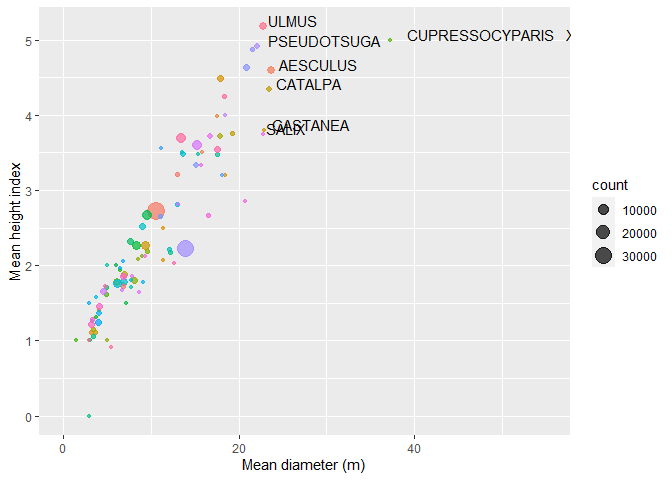
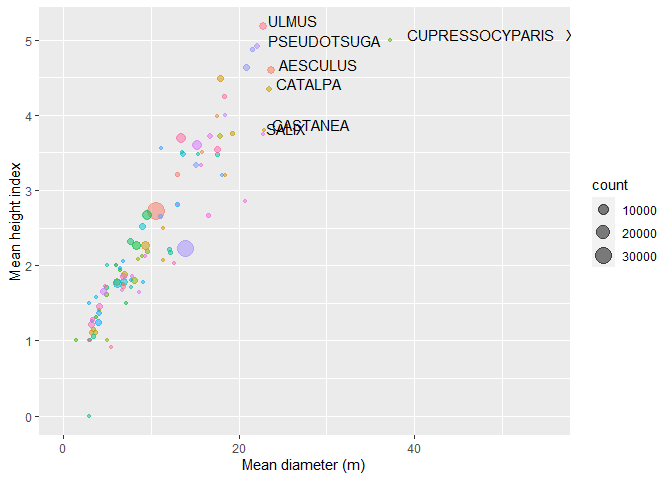
Completed part 2

diff --git a/mini-project-2.md b/mini-project-2.md
@@ -363,7 +363,7 @@ overlap I’ll label the top few points on the plot. Points will be tr
 ``` r
 genus_summary %>%
   ggplot(aes(x=mean, y= mean_height)) +
-  geom_point(aes(size = count, color = genus_name), alpha = 0.7) +
+  geom_point(aes(size = count, color = genus_name), alpha = 0.5) +
   geom_text(aes(label = ifelse(mean > 22,as.character(genus_name),''), hjust = -0.1, vjust =0)) +
   labs(x = "Mean diameter (m)", y = "Mean height index") +
   scale_color_discrete(guide="none") +
@@ -385,7 +385,36 @@ refined, now that you’ve investigated your data a bit more? Which
 research questions are yielding interesting results?
 
 <!------------------------- Write your answer here ---------------------------->
-<!----------------------------------------------------------------------------->
+
+I have made some progress towards answering all 4 of my research
+questions, although my approach is fairly coarse and qualitative in all
+cases. I know that trees grow taller roughly linearly as they age, and
+that the further east you go trees shrink (although, as noted, it’s not
+clear if this has much to do with the distance from the shore). For a
+more meaningful analysis of both of these questions, I really should be
+limiting myself to a specific species of tree, and perhaps in a specific
+area.
+
+For question 2, I see that even and odd sides of the road are very
+similar, although really I was hoping to get at east/west/north/south
+differences, which has not been elucidated from this example.
+
+For question 4, I have a few genera that grow taller and wider on
+average, but this did not include any controlling for other impacts, of
+which there are many.
+
+A more refined and realizable set of questions might be:
+
+1.  What quantitative relationship exists between the date planted and
+    tree diameter? Can we distinguish or control for the age of a tree
+    when it was planted?
+2.  How does the cardinal direction of a road affect the growth of trees
+    lining the street? Can we predict this effect numerically?
+3.  What relationship does geographic location have on the growth of
+    given species of trees?
+4.  For trees grown in similar conditions and planted at similar times,
+    what species or genus grows to the largest diameter?
+    <!----------------------------------------------------------------------------->
 
 # Task 2: Tidy your data
 
@@ -405,6 +434,31 @@ untidy? Go through all your columns, or if you have \>8 variables, just
 pick 8, and explain whether the data is untidy or tidy.
 
 <!--------------------------- Start your work below --------------------------->
+
+This data is mostly tidy.
+
+The goal is to study trees, each tree occupies a row, and can be seen as
+one observation of a tree. Each column is a variable relating to that
+tree. To discuss the first 8 columns: the tree’s ID is a unique
+identifier. The civic number appears to correspond to a house number. In
+untidy data, this might be combined withe the following column, the
+street name, however separating it like this is much tidier, as it
+allows for analysis per street. Likewise for genus and species. The
+cultivar is yet another independent property. Arguably, the inclusion of
+the common name is untidy, as this is entirely redundant with the genus
+and species. It would be better to separately store a lookup table for
+this information. The “assigned” column has an unclear meaning, which is
+also bad practice (although this is not *necessarily* unitdy).
+
+Looking closely at a few further columns, on_street_block also contains
+only less data than civic_number. on_street and std_street do appear to
+vary from one another, which likely corresponds to two different systems
+for representing the streets location. This is also potentially
+confusing, a better option would be to just pick one system to prevent
+anyone from accidentally using a different system than expected.
+
+However, in terms of the overall structure, the data is tidy.
+
 <!----------------------------------------------------------------------------->
 
 ### 2.2 (4 points)
@@ -419,6 +473,66 @@ Be sure to explain your reasoning for this task. Show us the “before”
 and “after”.
 
 <!--------------------------- Start your work below --------------------------->
+
+Although I mentioned a few non-ideal things, it would be pretty trivial
+to remove and add those columns back, so I’ll untidy the data further.
+
+To untidy it, I’ll do something that is truly a little insane, and
+simply give each numerical variable its own row, such that each row is a
+tree-numerical value combo
+
+``` r
+vancouver_trees_untidy <- vancouver_trees %>%
+  pivot_longer(cols = where(is.numeric) & -tree_id, names_to = "Property", values_to = "Value")
+
+head(vancouver_trees_untidy, n= 15)
+```
+
+    ## # A tibble: 15 × 16
+    ##    tree_id std_street genus_name species_name cultivar_name common_name assigned
+    ##      <dbl> <chr>      <chr>      <chr>        <chr>         <chr>       <chr>   
+    ##  1  149556 W 58TH AV  ULMUS      AMERICANA    BRANDON       BRANDON ELM N       
+    ##  2  149556 W 58TH AV  ULMUS      AMERICANA    BRANDON       BRANDON ELM N       
+    ##  3  149556 W 58TH AV  ULMUS      AMERICANA    BRANDON       BRANDON ELM N       
+    ##  4  149556 W 58TH AV  ULMUS      AMERICANA    BRANDON       BRANDON ELM N       
+    ##  5  149556 W 58TH AV  ULMUS      AMERICANA    BRANDON       BRANDON ELM N       
+    ##  6  149556 W 58TH AV  ULMUS      AMERICANA    BRANDON       BRANDON ELM N       
+    ##  7  149563 W 58TH AV  ZELKOVA    SERRATA      <NA>          JAPANESE Z… N       
+    ##  8  149563 W 58TH AV  ZELKOVA    SERRATA      <NA>          JAPANESE Z… N       
+    ##  9  149563 W 58TH AV  ZELKOVA    SERRATA      <NA>          JAPANESE Z… N       
+    ## 10  149563 W 58TH AV  ZELKOVA    SERRATA      <NA>          JAPANESE Z… N       
+    ## 11  149563 W 58TH AV  ZELKOVA    SERRATA      <NA>          JAPANESE Z… N       
+    ## 12  149563 W 58TH AV  ZELKOVA    SERRATA      <NA>          JAPANESE Z… N       
+    ## 13  149579 WINDSOR ST STYRAX     JAPONICA     <NA>          JAPANESE S… N       
+    ## 14  149579 WINDSOR ST STYRAX     JAPONICA     <NA>          JAPANESE S… N       
+    ## 15  149579 WINDSOR ST STYRAX     JAPONICA     <NA>          JAPANESE S… N       
+    ## # ℹ 9 more variables: root_barrier <chr>, plant_area <chr>, on_street <chr>,
+    ## #   neighbourhood_name <chr>, street_side_name <chr>, curb <chr>,
+    ## #   date_planted <date>, Property <chr>, Value <dbl>
+
+Now to clean it back up:
+
+``` r
+vancouver_trees_retidy <- vancouver_trees_untidy %>%
+  pivot_wider(names_from = Property, values_from = Value)
+
+head(vancouver_trees_retidy)
+```
+
+    ## # A tibble: 6 × 20
+    ##   tree_id std_street genus_name species_name cultivar_name  common_name assigned
+    ##     <dbl> <chr>      <chr>      <chr>        <chr>          <chr>       <chr>   
+    ## 1  149556 W 58TH AV  ULMUS      AMERICANA    BRANDON        BRANDON ELM N       
+    ## 2  149563 W 58TH AV  ZELKOVA    SERRATA      <NA>           JAPANESE Z… N       
+    ## 3  149579 WINDSOR ST STYRAX     JAPONICA     <NA>           JAPANESE S… N       
+    ## 4  149590 E 39TH AV  FRAXINUS   AMERICANA    AUTUMN APPLAU… AUTUMN APP… Y       
+    ## 5  149604 WINDSOR ST ACER       CAMPESTRE    <NA>           HEDGE MAPLE N       
+    ## 6  149616 W 61ST AV  PYRUS      CALLERYANA   CHANTICLEER    CHANTICLEE… N       
+    ## # ℹ 13 more variables: root_barrier <chr>, plant_area <chr>, on_street <chr>,
+    ## #   neighbourhood_name <chr>, street_side_name <chr>, curb <chr>,
+    ## #   date_planted <date>, civic_number <dbl>, on_street_block <dbl>,
+    ## #   height_range_id <dbl>, diameter <dbl>, longitude <dbl>, latitude <dbl>
+
 <!----------------------------------------------------------------------------->
 
 ### 2.3 (4 points)
@@ -430,14 +544,25 @@ analysis in the remaining tasks:
 
 <!-------------------------- Start your work below ---------------------------->
 
-1.  *FILL_THIS_IN*
-2.  *FILL_THIS_IN*
+1.  What quantitative relationship exists between the date planted and
+    tree diameter? Can we distinguish or control for the age of a tree
+    when it was planted?
+2.  How does the cardinal direction of a road affect the growth of trees
+    lining the street? Can we predict this effect numerically?
 
 <!----------------------------------------------------------------------------->
 
 Explain your decision for choosing the above two research questions.
 
 <!--------------------------- Start your work below --------------------------->
+
+I felt that these two questions were some of the most practical to
+answer, without pulling in an abundance of outside data. As well, both
+seemed to have some promising early results that we could dig deeper
+into.
+
+It also appeals to me that the answers to both of these questions have
+practical implications for the purposes of city planning.
 <!----------------------------------------------------------------------------->
 
 Now, try to choose a version of your data that you think will be
@@ -449,6 +574,66 @@ dropping irrelevant columns, etc.).
 data, one for each research question.)
 
 <!--------------------------- Start your work below --------------------------->
+
+I’m going to do some basic clean up that will help with both analyses,
+then eventually split into two, one tibble for each
+
+``` r
+vancouver_trees_clean <- vancouver_trees %>%
+  select(c(tree_id, std_street, genus_name, species_name, street_side_name, diameter,
+           date_planted, longitude, latitude)) %>%
+  na.exclude() %>% #remove rows with NAs
+  mutate(nominal_age = date("2023-10-24") - date_planted) %>% #use the more direct variable of age
+  relocate(nominal_age, .after = tree_id) %>% #Rearrange the date to put the interesting start at the front
+  relocate(diameter, .after = nominal_age) %>%
+  select(-date_planted)
+head(vancouver_trees_clean)
+```
+
+    ## # A tibble: 6 × 9
+    ##   tree_id nominal_age diameter std_street    genus_name species_name
+    ##     <dbl> <drtn>         <dbl> <chr>         <chr>      <chr>       
+    ## 1  149556  9050 days        10 W 58TH AV     ULMUS      AMERICANA   
+    ## 2  149563 10007 days        10 W 58TH AV     ZELKOVA    SERRATA     
+    ## 3  149579 10928 days         4 WINDSOR ST    STYRAX     JAPONICA    
+    ## 4  149590 10039 days        18 E 39TH AV     FRAXINUS   AMERICANA   
+    ## 5  149604 10903 days         9 WINDSOR ST    ACER       CAMPESTRE   
+    ## 6  149617 10904 days        15 SHERBROOKE ST ACER       PLATANOIDES 
+    ## # ℹ 3 more variables: street_side_name <chr>, longitude <dbl>, latitude <dbl>
+
+Now I’ll make a version for my question 1, which only requires selecting
+a few fewer variables. Realistically, we would also eventually want to
+filter to one specific species, but some more work is required to pick a
+species that has a large number of species planted over a wide range of
+dates.
+
+``` r
+vancouver_trees_q1 <- vancouver_trees_clean %>%
+  select(c(tree_id, nominal_age, diameter, longitude, latitude))
+```
+
+For question 2, I want to create a categorical variable that says
+whether a tree is on the north, south, east or west side of the street.
+Luckily, in Vancouver, the odd side of the road is north on an avenue
+and west on a street, and the opposite for the even. We can work from
+this.
+
+``` r
+vancouver_trees_q2 <- vancouver_trees_clean %>%
+  filter(street_side_name %in% c("EVEN", "ODD")) %>% #We can only work with even or odd
+  filter(str_ends(std_street, "AV") | str_ends(std_street, "ST")) %>%
+  mutate(street_side = case_when(
+    str_ends(std_street, "AV") & street_side_name == "ODD" ~ "north",
+    str_ends(std_street, "AV") & street_side_name == "EVEN" ~ "south",
+    str_ends(std_street, "ST") & street_side_name == "ODD" ~ "east",
+    str_ends(std_street, "ST") & street_side_name == "EVEN" ~ "west",
+  ))
+```
+
+Of course, this won’t be perfect, because not all streets and avenues
+are perfectly parallel, and I can’t guarantee that the naming and
+numbering scheme are 100% consistent, but this should split things up
+reasonably
 
 # Task 3: Modelling
 
